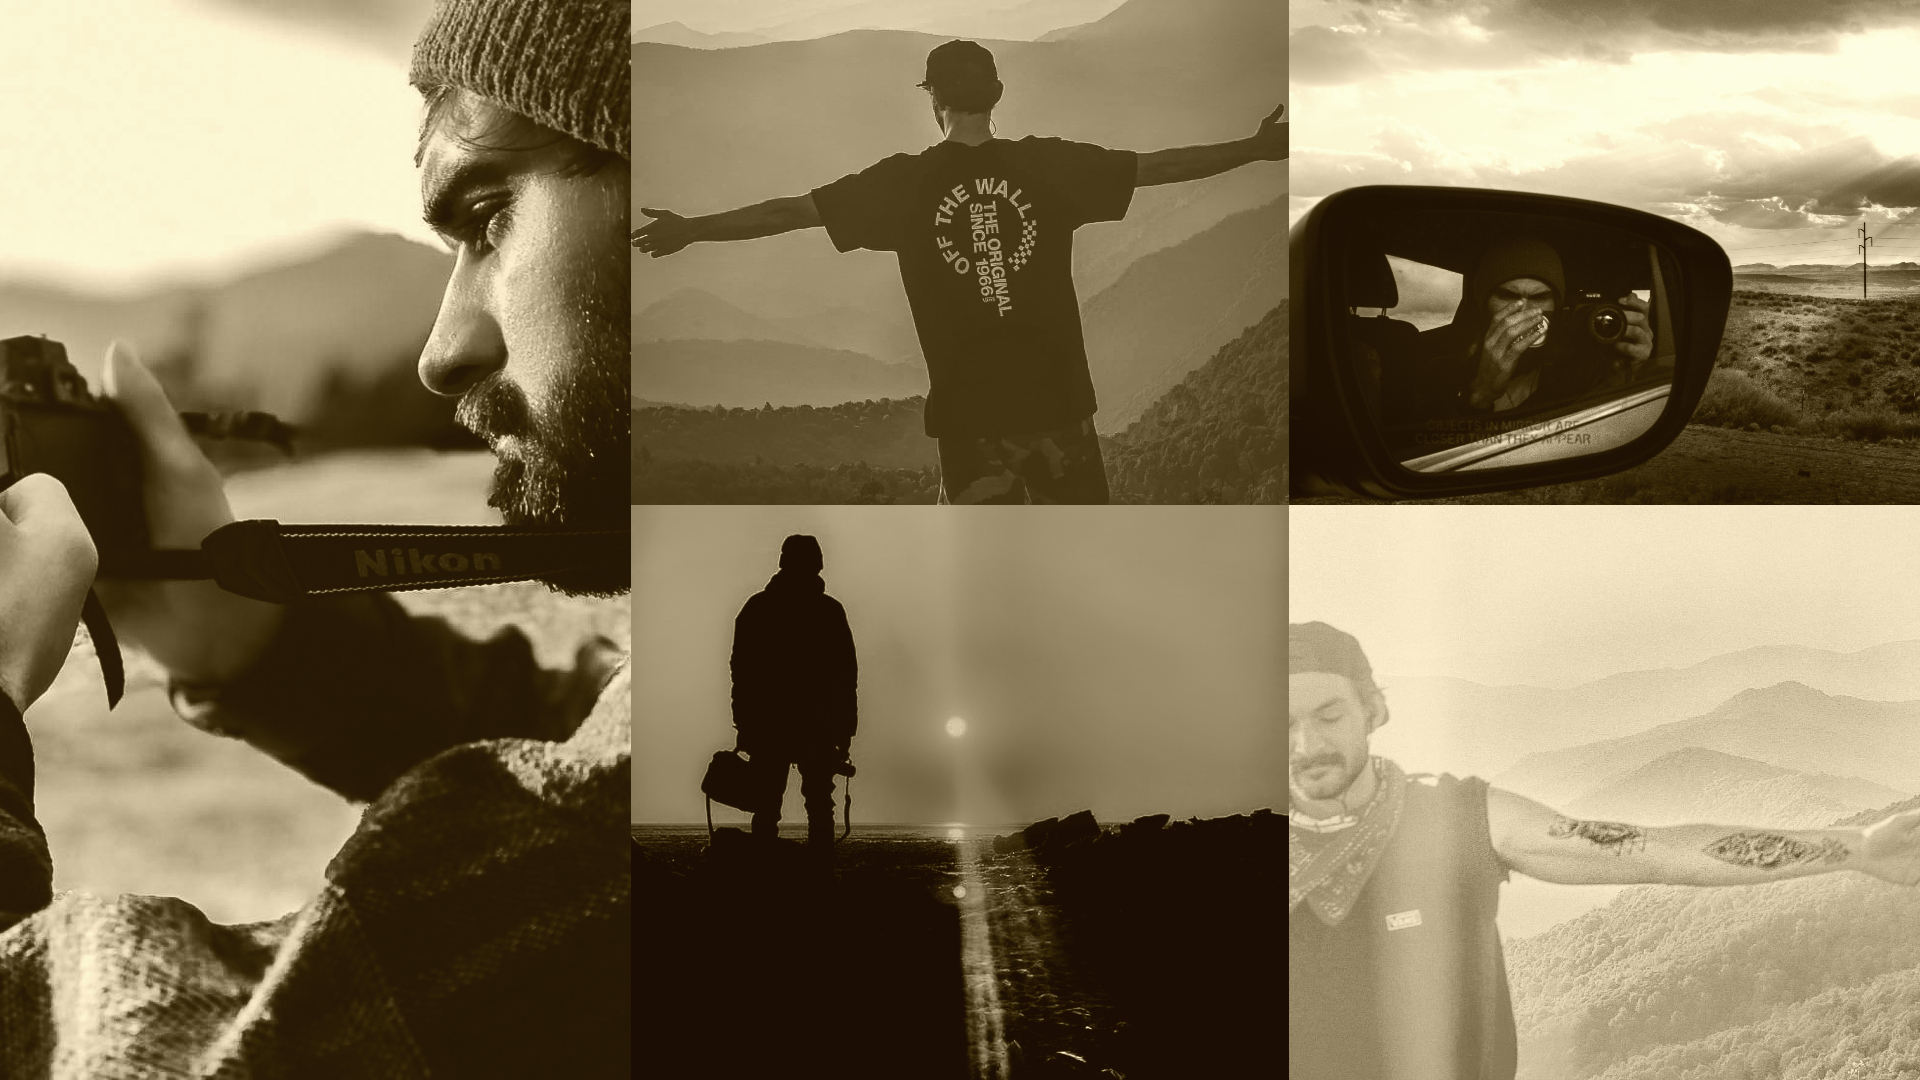
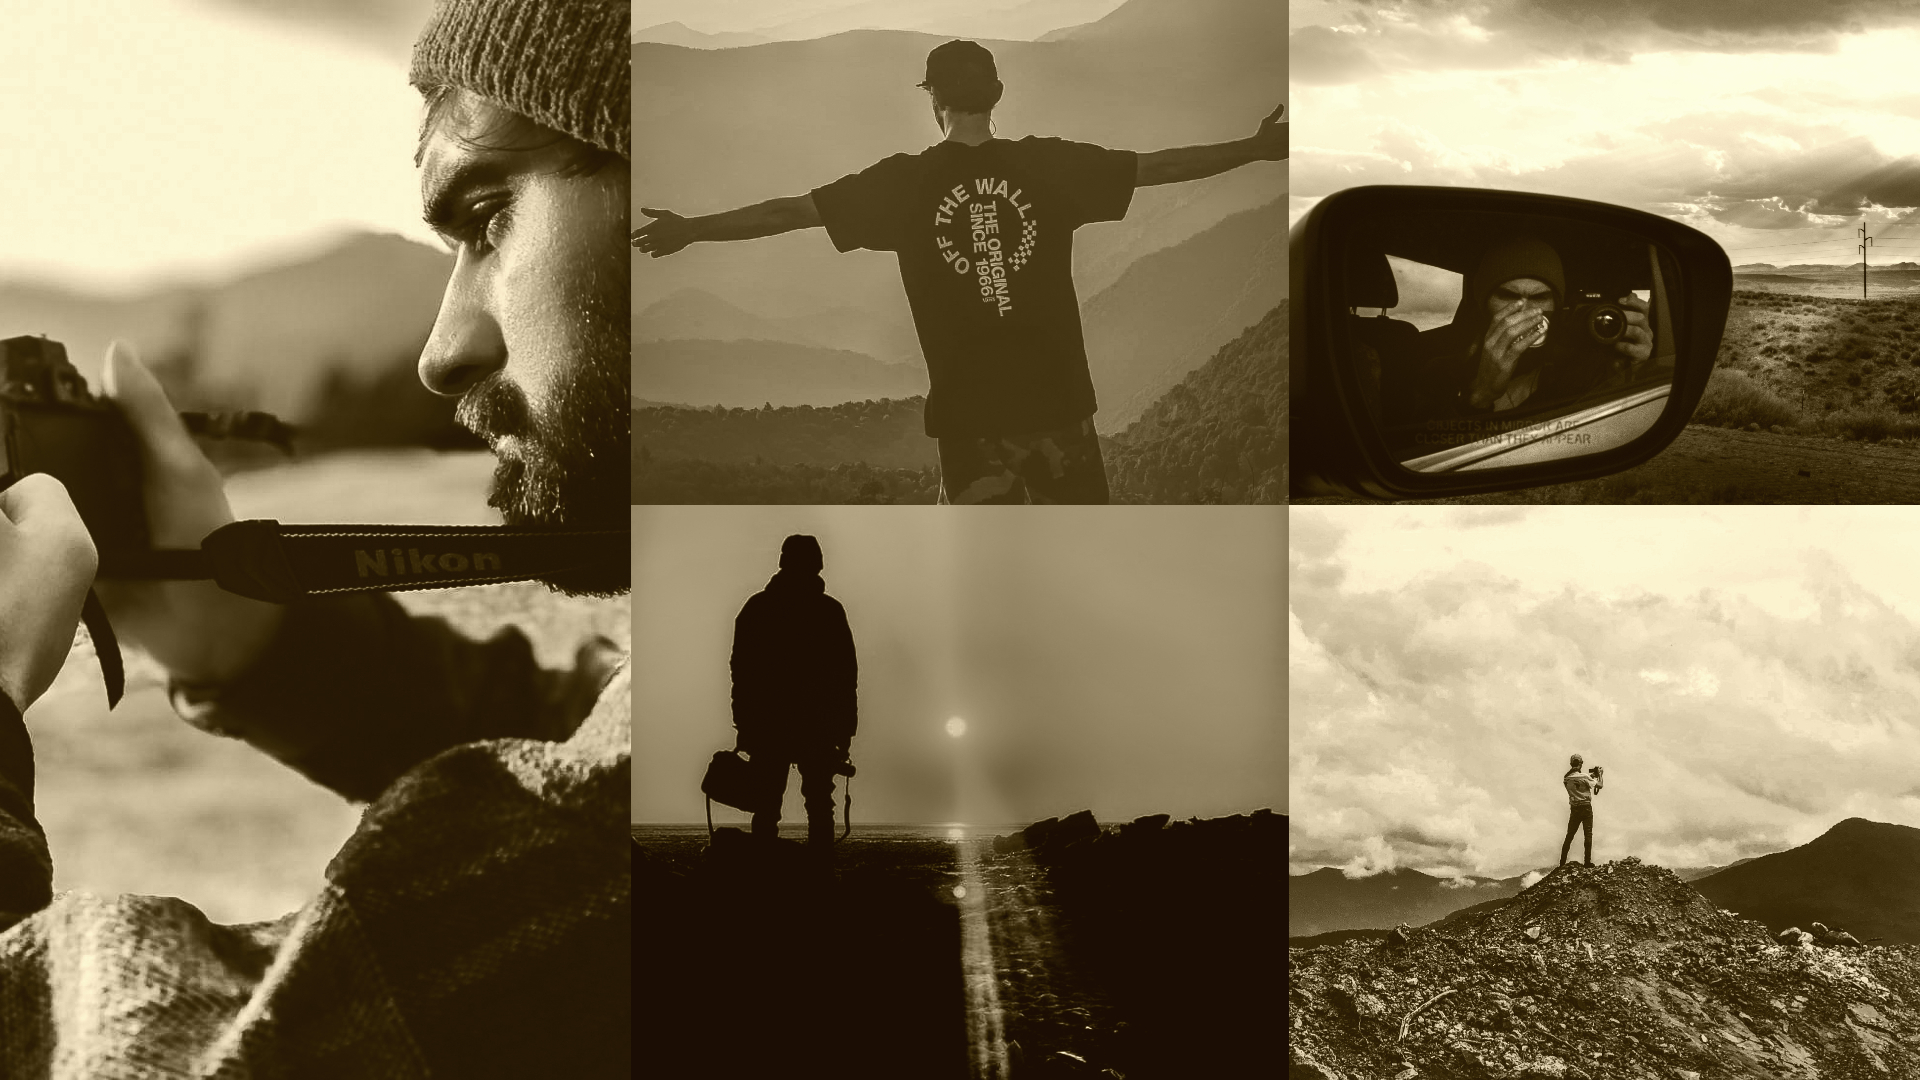
more photos added to gallery

Changed region(s): [[0.6562, 0.4889, 1.0, 1.0], [0.9062, 0.55, 0.9375, 0.5806]]

diff --git a/src/pages/Gallery.jsx b/src/pages/Gallery.jsx
@@ -1,51 +1,142 @@
 import { Row, Col, Container } from "react-bootstrap";
 
-import ModalImage from 'react-modal-image';
-import lightShine from "../assets/images/lightShine.jpg"
-import goldenHour from "../assets/images/goldenHour.jpg"
-import hikingMan from "../assets/images/hikingMan.jpg"
-import treeFall from "../assets/images/treeFall.jpg"
+import ModalImage from "react-modal-image";
 
-
+import lightShine from "../assets/images/lightShine.jpg";
+import goldenHour from "../assets/images/goldenHour.jpg";
+import hikingMan from "../assets/images/hikingMan.jpg";
+import treeFall from "../assets/images/treeFall.jpg";
+import mountainMan from "../assets/images/mountainMan.jpg";
+import majesticForest from "../assets/images/majesticForest.jpg";
+import foggyOwl from "../assets/images/foggyOwl.jpg"
+import forestBridge from "../assets/images/forestBridge.jpg";
+import forestPath from "../assets/images/forestpath.jpg";
+import forestHall from "../assets/images/forestHall.jpg";
+import grinch from "../assets/images/grinch.jpg"
+import land from "../assets/images/land.jpg"
+import rambo from "../assets/images/rambo.jpg";
+import sunStream from "../assets/images/sunStream.jpg"
 
 export default function Gallery() {
-    return (
-<Container>
-    <Row>
+  return (
+    <Container fluid>
+      <Row>
         <Col>
-        <p className="galleryTitle">1. Forests and Greenery</p>
+          <p className="galleryTitle">1. Forests and Greenery</p>
         </Col>
-    </Row>
-    <Row>
+      </Row>
+      <Row className="align-items-center p-3">
         <Col lg={3}>
-            <ModalImage
-            small = {lightShine}
-            large = {lightShine}
-            alt = "The sun beaming through the thick forest"
-            className = "galleryImage" />
-        </Col>
-        <Col lg={3}>
-            <ModalImage
-            small = {goldenHour}
-            large = {goldenHour}
-            alt = "Golden Hour in the Appalachians"
-            className = "galleryImage" />
+          <ModalImage
+            small={lightShine}
+            large={lightShine}
+            alt="The sun beaming through the thick forest"
+            className="galleryImage"
+          />
         </Col>
         <Col lg={3}>
-            <ModalImage
-            small = {hikingMan}
-            large = {hikingMan}
-            alt = "A man hiking through the Appalachians"
-            className = "galleryImage" />
+          <ModalImage
+            small={goldenHour}
+            large={goldenHour}
+            alt="Golden Hour in the Appalachians"
+            className="galleryImage"
+          />
+        </Col>
+        <Col lg={3}>
+          <ModalImage
+            small={hikingMan}
+            large={hikingMan}
+            alt="A man hiking through the Appalachians"
+            className="galleryImage"
+          />
         </Col>
         <Col lg={3} sm={12}>
-            <ModalImage
-            small = {treeFall}
-            large = {treeFall}
-            alt = "A man hiking through the Appalachians"
-            className = "galleryImage" />
+          <ModalImage
+            small={treeFall}
+            large={treeFall}
+            alt="A man hiking through the Appalachians"
+            className="galleryImage"
+          />
         </Col>
-    </Row>
-</Container>
-    )
+      </Row>
+      <Row className="align-items-center p-3">
+        <Col lg={3} sm={12}>
+          <ModalImage
+            small={mountainMan}
+            large={mountainMan}
+            alt="A selfie taken on Max Patch, a mountain bald on the North Carolina/Tennessee border."
+            className="galleryImage"
+          />
+        </Col>
+        <Col lg={3} sm={12}>
+          <ModalImage
+            small={forestBridge}
+            large={forestBridge}
+            alt="a Bridge lay across a hiking path in the appalachians to cross creek on foot."
+            className="galleryImage"
+          />
+        </Col>
+        <Col lg={3} sm={12}>
+          <ModalImage
+            small={forestHall}
+            large={forestHall}
+            alt="The tree lines the hiking path perfect to create a hall in the forest."
+            className="galleryImage"
+          />
+        </Col>
+        <Col lg={3} sm={12}>
+          <ModalImage
+            small={majesticForest}
+            large={majesticForest}
+            alt="A majestic image with fog in the thick brush of the Appalachians."
+            className="galleryImage"
+          />
+        </Col>
+      </Row>
+      <Row className="align-items-center text-center p-4">
+        <Col lg={12} sm={12} className="text-center">
+          <ModalImage
+            small={rambo}
+            large={rambo}
+            alt="A man hiding behind the tall leaves in the Appalachians."
+            className="galleryImageLarge"
+          />
+        </Col>
+      </Row>
+      <Row className="align-items-center p-3">
+        <Col lg={3}>
+          <ModalImage
+            small={grinch}
+            large={grinch}
+            alt="A foggy patch hanging left off the appalachian trail."
+            className="galleryImage"
+          />
+        </Col>
+        <Col lg={3}>
+          <ModalImage
+            small={land}
+            large={land}
+            alt="A magical and colorful area in the Appalachians."
+            className="galleryImage"
+          />
+        </Col>
+        <Col lg={3}>
+          <ModalImage
+            small={foggyOwl}
+            large={foggyOwl}
+            alt="A man hiking through the Appalachians holding the rope to cross a waterway."
+            className="galleryImage"
+          />
+        </Col>
+        <Col lg={3} sm={12}>
+          <ModalImage
+            small={sunStream}
+            large={sunStream}
+            alt="Light rays shine over a puddle in the Appalachian Forest."
+            className="galleryImage"
+          />
+        </Col>
+      </Row>
+    </Container>
+  );
 }

diff --git a/src/index.css b/src/index.css
@@ -87,3 +87,19 @@ text-align: center;
 text-decoration: underline;
   font-size: x-large;
 }
+
+.galleryImage {
+  box-shadow: 0 0 5px 0 rgba(0, 0, 0, 1);
+  max-width:325px !important;
+  transition: .2s ease-in
+}
+
+.galleryImage:hover, .galleryImageLarge:hover {
+  box-shadow: 0 0 20px 2px rgba(0, 0, 0, 1);
+}
+
+.galleryImageLarge {
+  box-shadow: 0 0 5px 0 rgba(0, 0, 0, 1);
+  max-width: 80% !important;
+  transition: .3s ease-in
+}
